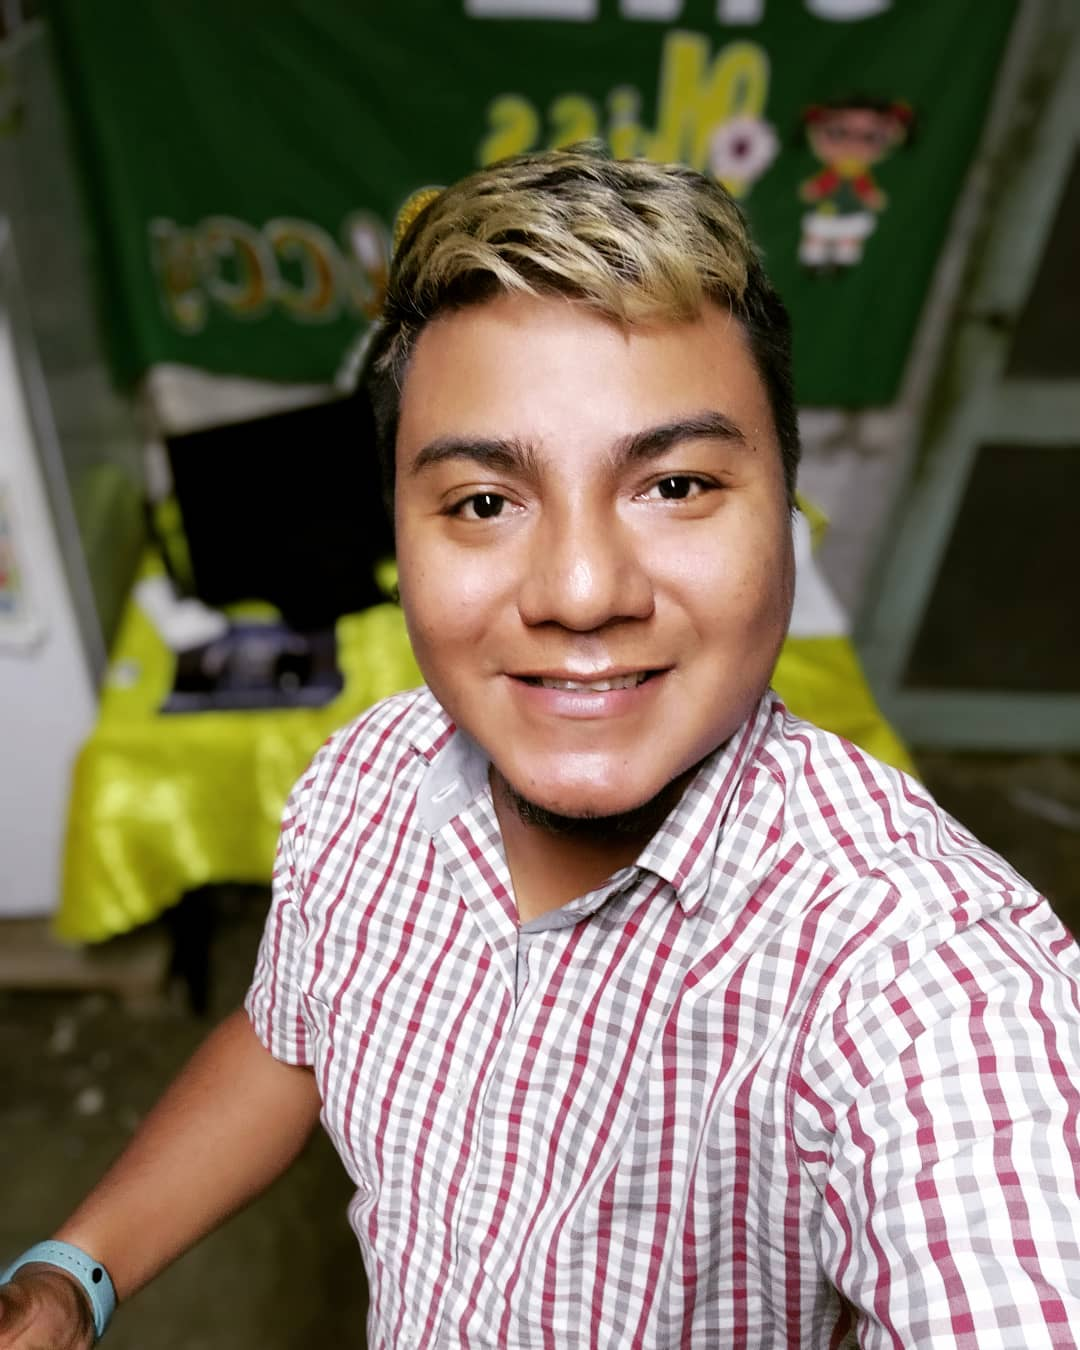
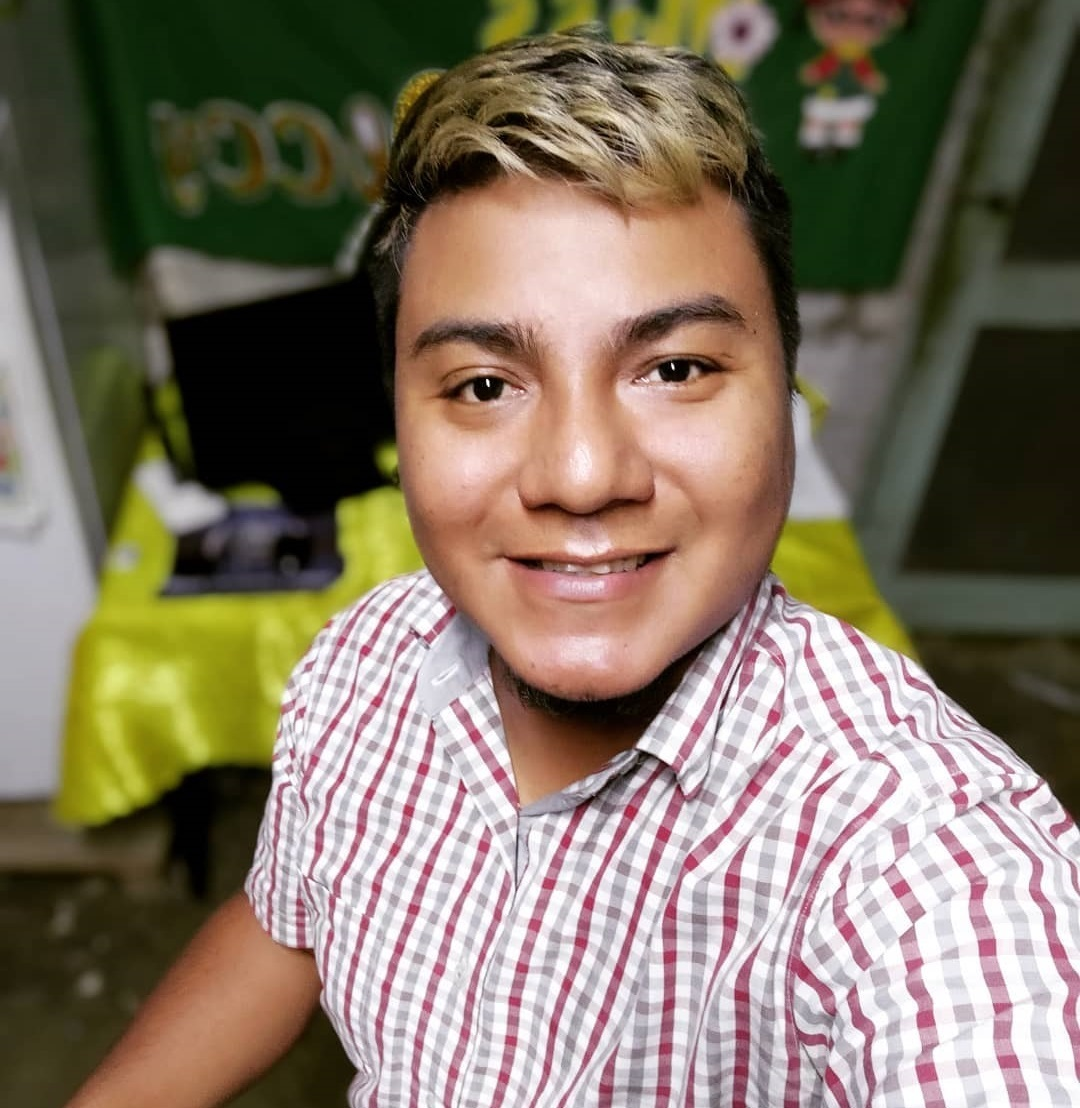
Changes to images with next/image attributes

diff --git a/components/ProjectCard.tsx b/components/ProjectCard.tsx
@@ -27,6 +27,9 @@ const ProjectCard:FunctionComponent<{
                 alt={name}
                 className='cursor-pointer h-12 w-12'
                 onClick={()=>setShowDetail(true)}
+                width="300"
+                height="150"
+                layout='responsive'
             />
             <p className='my-2 text-center'>{name}</p>
 
@@ -38,12 +41,15 @@ const ProjectCard:FunctionComponent<{
                         <Image
                             src={image}
                             alt={name}
+                            layout='responsive'
+                            height="150"
+                            width="300"   
                         />
                         <div className='flex justify-center my-4 space-x-3'>
-                            <a href={github_url} className='flex items-center px-4 py-2 space-x-3 text-lg bg-gray-200 dar:bg-dark-200'>
+                            <a href={github_url} className='flex items-center px-4 py-2 space-x-3 text-lg bg-gray-300 dark:bg-dark-200'>
                                 <AiFillGithub/> <span>Github</span>
                             </a>
-                            <a href={deployed_url} className='flex items-center px-4 py-2 space-x-3 text-lg bg-gray-200 dar:bg-dark-200'>
+                            <a href={deployed_url} className='flex items-center px-4 py-2 space-x-3 text-lg bg-gray-300 dark:bg-dark-200'>
                                 <AiFillProject/> <span>Project</span>
                             </a>
                         </div>
@@ -55,7 +61,7 @@ const ProjectCard:FunctionComponent<{
                             {
                                 key_techs.map((tech)=>(
                                     <span key={tech}
-                                      className='px-2 py-1 my-1 bg-gray-200 dark:bg-dark-200 rounded-sm'  
+                                      className='px-2 py-1 my-1 bg-gray-300 dark:bg-dark-200 rounded-sm'  
                                     >{tech}</span>
                                 ))
                             }

diff --git a/components/Sidebar.tsx b/components/Sidebar.tsx
@@ -15,13 +15,14 @@ const Sidebar = () => {
 
     return (
         <div>
-            <div className="w-32 h-32 mx-auto mb-8 rounded-full">
                 <Image
                     src={profilePhoto}
                     alt="profile photo"
-                    className="rounded-full"
-                />
-            </div>
+                    height="170px"
+                    width="170px"
+                    className="mx-auto border rounded-full"
+                    layout="intrinsic"
+                    quality="100"                />
             <h3 className="my-4 text-3xl font-medium tracking-wider font-smooch">
                 <span className="text-green">Johao</span>
                 López

diff --git a/data.ts b/data.ts
@@ -185,7 +185,7 @@ export const tools:ISkill[] = [
             image: GesSaludPic,
             deployed_url: "https://ges-salud.vercel.app/",
             github_url: "https://github.com/guillevidal/GesSalud",
-            category: ["PERN Stack"],
+            category: ["PERN_Stack"],
             key_techs: ["PostgreSQL","ExpressJs","React","NodeJs","JWT","NodeMailer","Multer","Others"]
         },
 

diff --git a/components/ProjectsNavBar.tsx b/components/ProjectsNavBar.tsx
@@ -24,7 +24,7 @@ const ProjectsNavBar:FunctionComponent<{handlerFilterCategory:Function, active:s
             <NavItem value="All" {...props} />
             <NavItem value="React/Redux" {...props} />
             <NavItem value="NodeJs/ExpressJs" {...props} />
-            <NavItem value="PERN Stack" {...props} />
+            <NavItem value="PERN_Stack" {...props} />
         </div>
     )
 }

diff --git a/type.ts b/type.ts
@@ -22,4 +22,4 @@ export interface IProject {
     key_techs: string[]
 }
 
-export type Category = "React/Redux"|"NodeJs/ExpressJs"|"PERN Stack";
+export type Category = "React/Redux"|"NodeJs/ExpressJs"|"PERN_Stack";
